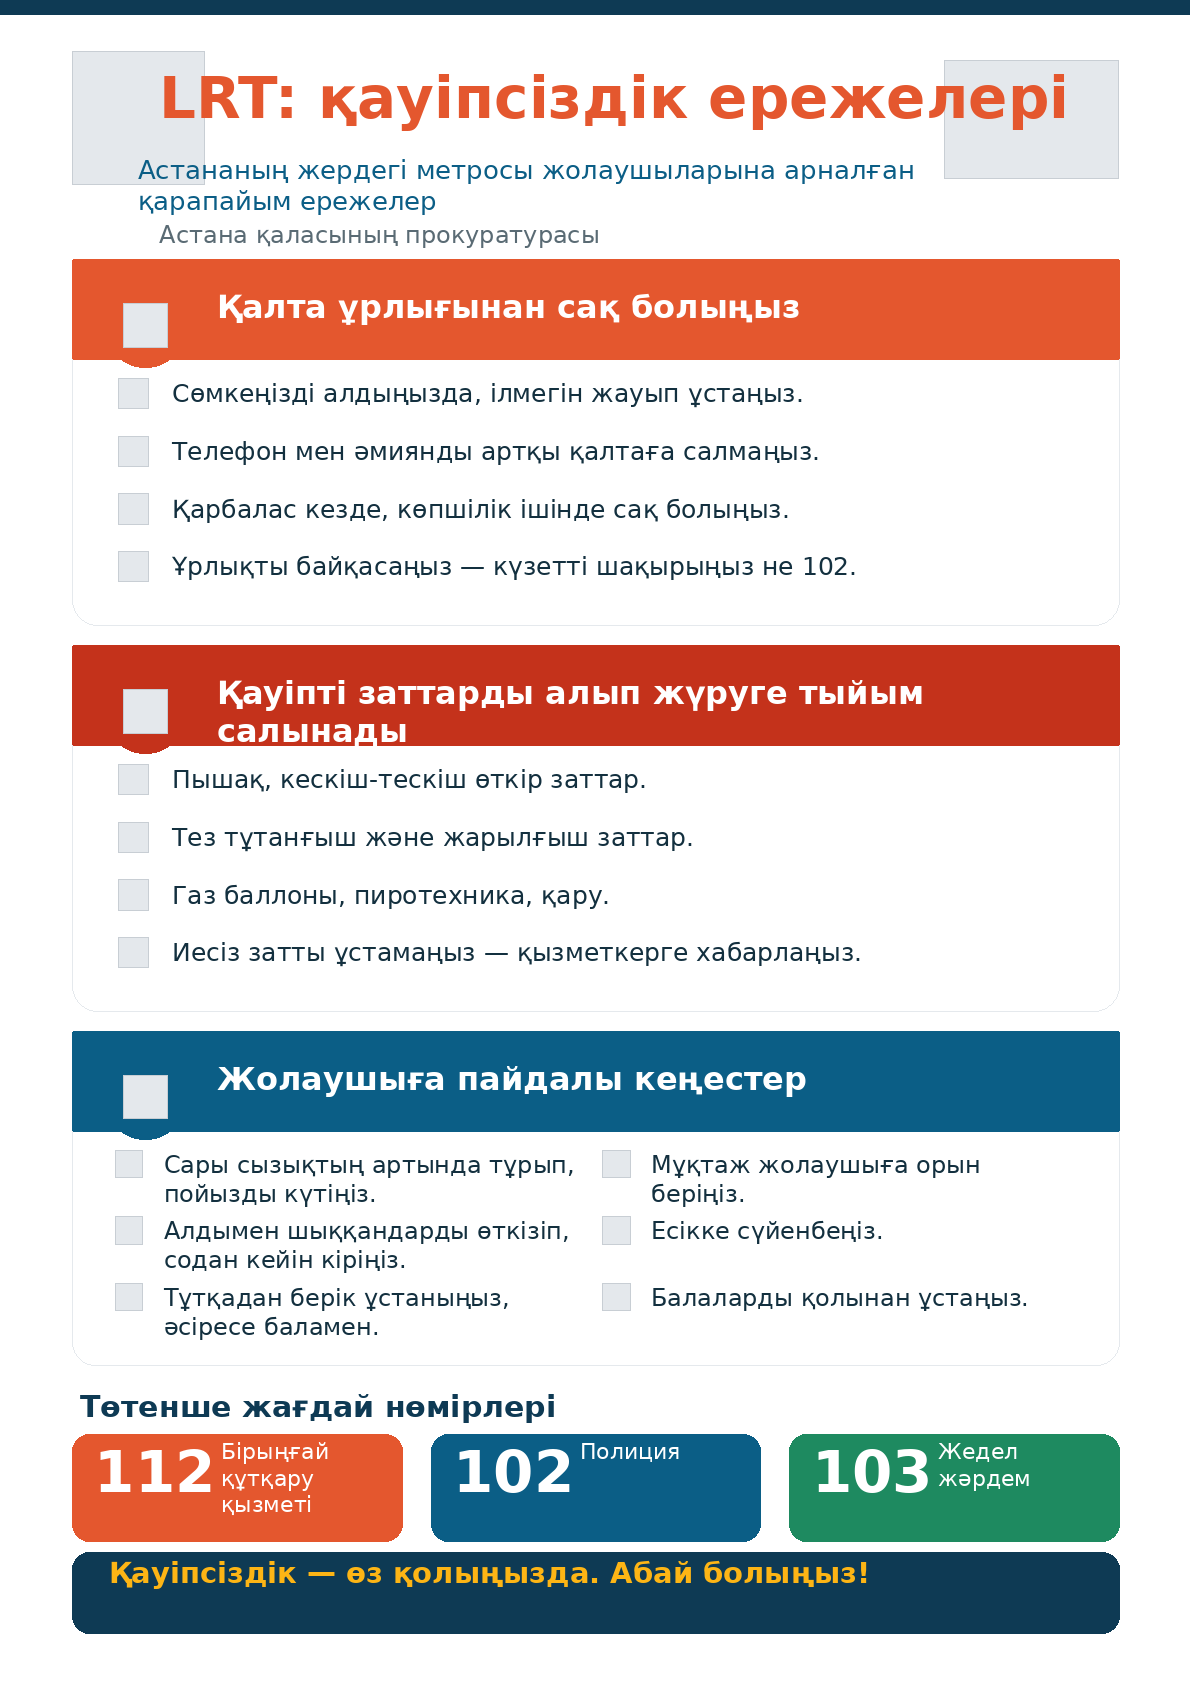
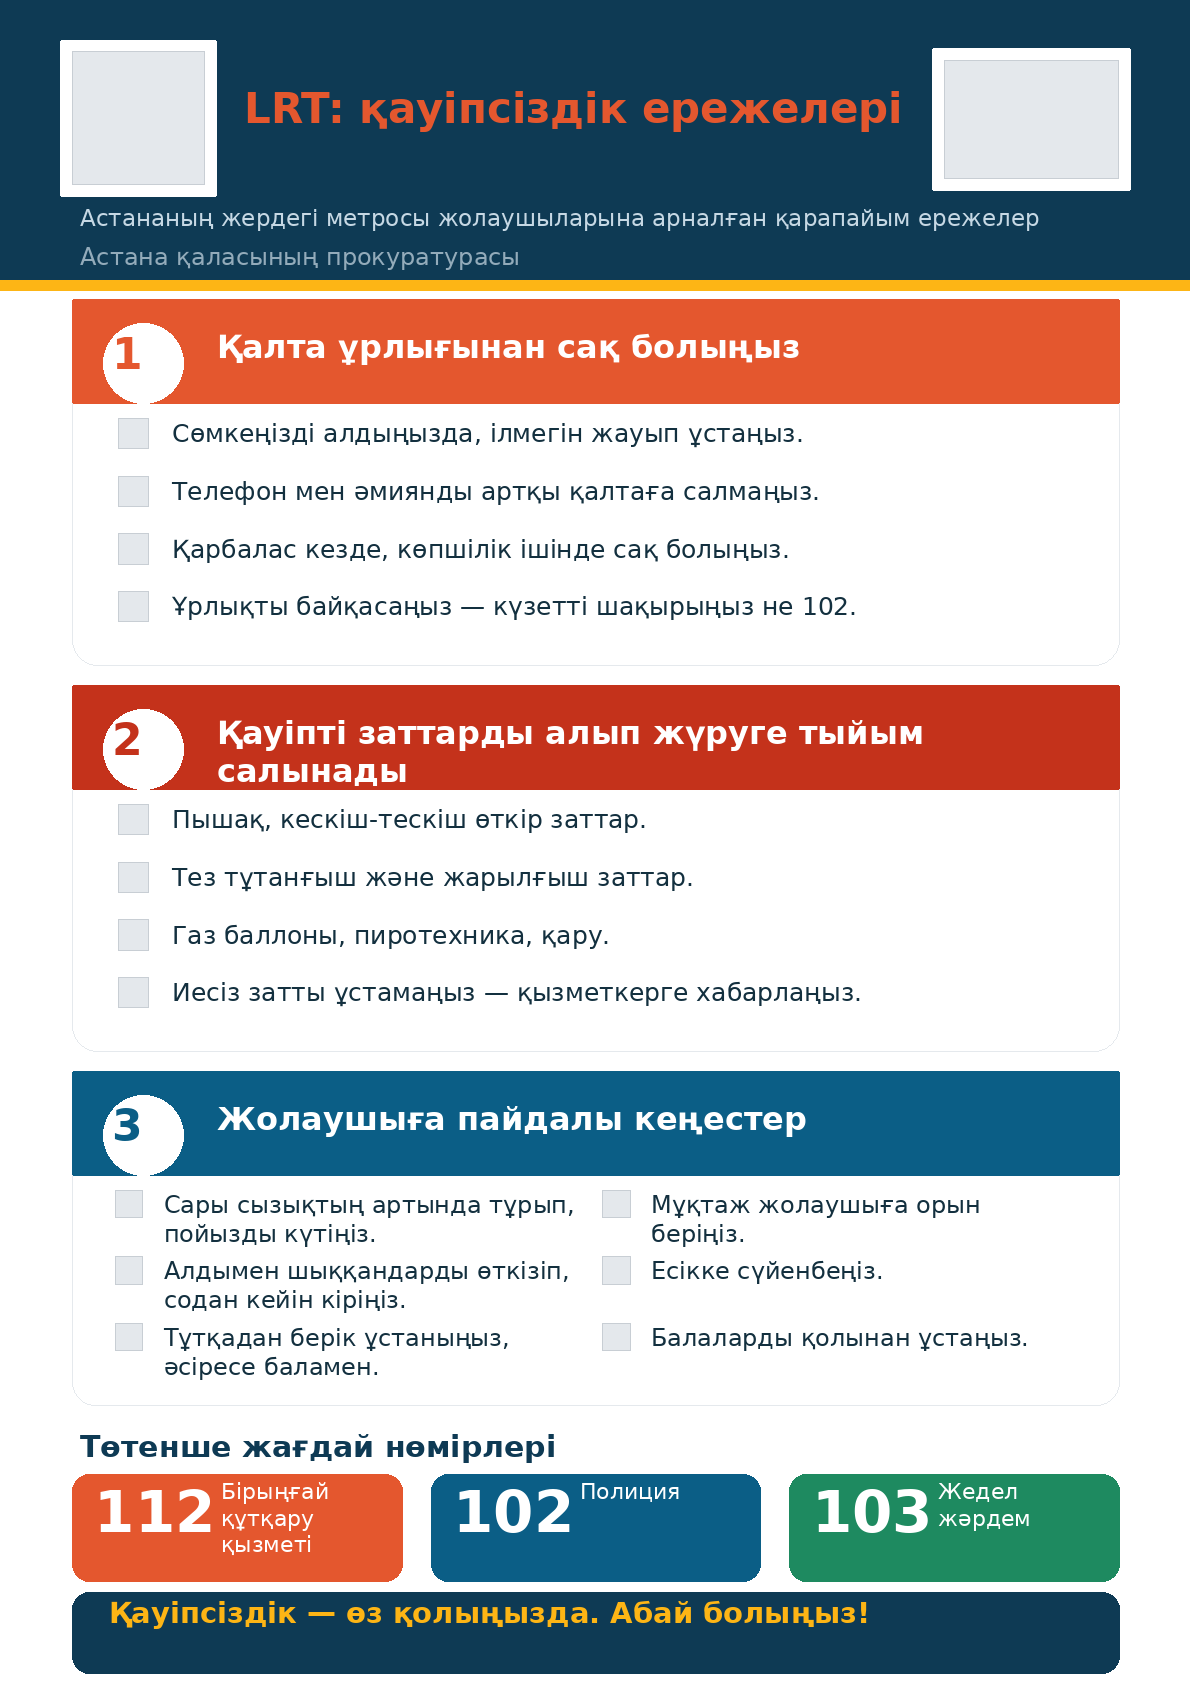
LRT poster: bold poster redesign (navy gradient hero + numbered bands)
- Navy gradient hero with gold accent rule, white logo chips, big orange "LRT"
  wordmark, one-line title (RU + KZ), full-width subtitle/issuer
- Section blocks: clean white cards with solid colored header bands and large
  numbered badges (1/2/3)
- Kazakh translation completed; ЛРТ latinized to LRT
- Built with an in-repo approximate PPTX->PNG renderer (work/render.py) to
  design visually since LibreOffice can't run here; previews refreshed

diff --git a/lrt-poster/build.py b/lrt-poster/build.py
@@ -1,89 +1,129 @@
 # -*- coding: utf-8 -*-
-"""LRT safety poster: latinize ЛРТ->LRT, complete the Kazakh translation, and
-redesign the section blocks into clean white cards with solid colored header
-bands (white titles). Applied to both RU (slide 1) and KZ (slide 2)."""
+"""LRT safety poster — bold redesign: navy gradient hero, big section index
+numbers, clean colored header bands. RU (slide 1) + KZ (slide 2). Keeps images,
+completes the Kazakh translation, latinizes ЛРТ->LRT."""
 from pptx import Presentation
 from pptx.util import Pt, Emu
 from pptx.dml.color import RGBColor
 from pptx.enum.shapes import MSO_SHAPE
+from pptx.enum.text import PP_ALIGN, MSO_ANCHOR
 from pptx.oxml.ns import qn
 
 SRC = "lrt-poster/source_LRT_ru_kz.pptx"
 OUT = "lrt-poster/LRT_safety_poster_FINAL.pptx"
 prs = Presentation(SRC)
 
-ORANGE = RGBColor(0xE4,0x57,0x2E)
-RED    = RGBColor(0xC4,0x32,0x1B)
-BLUE   = RGBColor(0x0B,0x5E,0x86)
-NAVY   = RGBColor(0x0E,0x3A,0x54)
-WHITE  = RGBColor(0xFF,0xFF,0xFF)
-CARDBD = RGBColor(0xE5,0xE9,0xED)
+ORANGE=RGBColor(0xE4,0x57,0x2E); RED=RGBColor(0xC4,0x32,0x1B); BLUE=RGBColor(0x0B,0x5E,0x86)
+NAVY=RGBColor(0x0E,0x3A,0x54); NAVY2=RGBColor(0x16,0x5A,0x7C); GOLD=RGBColor(0xFD,0xB5,0x15)
+WHITE=RGBColor(0xFF,0xFF,0xFF); CARDBD=RGBColor(0xE5,0xE9,0xED)
+LT=RGBColor(0xC6,0xD8,0xE4); MUT=RGBColor(0x93,0xAB,0xBA)
+DY=20  # shift content down to make room for the hero
 
-def find(slide, name):
-    return next((sh for sh in slide.shapes if sh.name == name), None)
+def find(s,n): return next((x for x in s.shapes if x.name==n),None)
+def rid(sh):
+    p=sh._element.getparent();
+    if p is not None: p.remove(sh._element)
+def to_back(sh):
+    el=sh._element; tree=el.getparent(); tree.remove(el)
+    anchor=tree.find(qn('p:grpSpPr'))
+    anchor.addnext(el)
+def set_radius(sh,val):
+    g=sh._element.find('.//'+qn('a:prstGeom')); gd=g.find('.//'+qn('a:gd')) if g is not None else None
+    if gd is not None: gd.set('fmla','val %d'%val)
+def grad(shape,c1,c2,ang=2700000):
+    spPr=shape._element.spPr
+    for t in ('a:noFill','a:solidFill','a:gradFill','a:blipFill','a:pattFill'):
+        e=spPr.find(qn(t))
+        if e is not None: spPr.remove(e)
+    g=spPr.makeelement(qn('a:gradFill'),{}); lst=g.makeelement(qn('a:gsLst'),{})
+    for pos,c in [(0,c1),(100000,c2)]:
+        gs=lst.makeelement(qn('a:gs'),{'pos':str(pos)})
+        cl=gs.makeelement(qn('a:srgbClr'),{'val':'%02X%02X%02X'%(c[0],c[1],c[2])})
+        gs.append(cl); lst.append(gs)
+    g.append(lst); g.append(g.makeelement(qn('a:lin'),{'ang':str(ang),'scaled':'1'}))
+    ln=spPr.find(qn('a:ln'))
+    (ln.addprevious(g) if ln is not None else spPr.append(g))
+def set_runs(shape,parts,anchor=None):
+    tf=shape.text_frame; p=tf.paragraphs[0]; r0=p.runs[0]
+    sz,bold,name=r0.font.size,r0.font.bold,r0.font.name
+    r0.text=parts[0][0]; r0.font.color.rgb=parts[0][1]
+    for r in p.runs[1:]: r.text=''
+    for t,c in parts[1:]:
+        r=p.add_run(); r.text=t; r.font.size,r.font.bold,r.font.name=sz,bold,name; r.font.color.rgb=c
+    if anchor is not None: tf.vertical_anchor=anchor
+def set_text(shape,new,color=None):
+    p=shape.text_frame.paragraphs[0]; p.runs[0].text=new
+    if color is not None: p.runs[0].font.color.rgb=color
+    for r in p.runs[1:]: r.text=''
+def rect(s,x,y,w,h,fill=None,line=None,lw=1.0,round_=None,grad2=None):
+    shp=MSO_SHAPE.ROUNDED_RECTANGLE if round_ is not None else MSO_SHAPE.RECTANGLE
+    sh=s.shapes.add_shape(shp,Pt(x),Pt(y),Pt(w),Pt(h))
+    if round_ is not None: set_radius(sh,round_)
+    if grad2: grad(sh,grad2[0],grad2[1])
+    elif fill is not None: sh.fill.solid(); sh.fill.fore_color.rgb=fill
+    else: sh.fill.background()
+    if line is not None: sh.line.color.rgb=line; sh.line.width=Pt(lw)
+    else: sh.line.fill.background()
+    sh.shadow.inherit=False; return sh
+def txt(s,x,y,w,h,runs,sz,bold,color,align=PP_ALIGN.LEFT,anchor=MSO_ANCHOR.TOP,font='Calibri'):
+    tb=s.shapes.add_textbox(Pt(x),Pt(y),Pt(w),Pt(h)); tf=tb.text_frame; tf.word_wrap=True
+    tf.vertical_anchor=anchor
+    for m in ('left','right','top','bottom'): setattr(tf,'margin_'+m,0)
+    p=tf.paragraphs[0]; p.alignment=align
+    for t,c in (runs if isinstance(runs,list) else [(runs,color)]):
+        r=p.add_run(); r.text=t; r.font.size=Pt(sz); r.font.bold=bold; r.font.name=font; r.font.color.rgb=c
+    return tb
 
-def set_runs(shape, parts):
-    p = shape.text_frame.paragraphs[0]; r0 = p.runs[0]
-    sz, bold, name = r0.font.size, r0.font.bold, r0.font.name
-    r0.text = parts[0][0]; r0.font.color.rgb = parts[0][1]
-    for r in p.runs[1:]: r.text = ''
-    for t, c in parts[1:]:
-        r = p.add_run(); r.text = t
-        r.font.size, r.font.bold, r.font.name = sz, bold, name
-        r.font.color.rgb = c
+SECTIONS=[('Shape 3','Shape 4','Text 5','Image 2',ORANGE,'1'),
+          ('Shape 10','Shape 11','Text 12','Image 7',RED,'2'),
+          ('Shape 17','Shape 18','Text 19','Image 12',BLUE,'3')]
+title_tail={0:': правила безопасности',1:': қауіпсіздік ережелері'}
+sub_txt={0:'Простые правила для пассажиров наземного метро Астаны',1:'Астананың жердегі метросы жолаушыларына арналған қарапайым ережелер'}
+iss_txt={0:'Прокуратура города Астаны',1:'Астана қаласының прокуратурасы'}
+kz_fix={'Text 15':'Газ баллоны, пиротехника, қару.','Text 20':'Сары сызықтың артында тұрып, пойызды күтіңіз.',
+        'Text 21':'Алдымен шыққандарды өткізіп, содан кейін кіріңіз.','Text 22':'Тұтқадан берік ұстаныңыз, әсіресе баламен.'}
 
-def set_text(shape, new, color=None):
-    p = shape.text_frame.paragraphs[0]; p.runs[0].text = new
-    if color is not None: p.runs[0].font.color.rgb = color
-    for r in p.runs[1:]: r.text = ''
+SW=Emu(prs.slide_width).pt
+for i,s in enumerate(prs.slides):
+    # 1) shift existing content down to clear the hero
+    for sh in list(s.shapes):
+        if Emu(sh.top).pt>=129: sh.top=Pt(Emu(sh.top).pt+DY)
+    # 2) HERO background (gradient) + gold accent
+    hero=rect(s,0,0,SW,140,grad2=(NAVY,NAVY2)); to_back(hero)
+    rect(s,0,140,SW,5,fill=GOLD)
+    # 3) white chips behind logos
+    for logo,(cx,cy,cw,ch) in [(find(s,'Image 0'),(30,20,78,78)),(find(s,'Image 1'),(466,24,99,71))]:
+        if logo is not None:
+            chip=rect(s,cx,cy,cw,ch,fill=WHITE,round_=12000)
+            el=chip._element; el.getparent().remove(el); logo._element.addprevious(el)
+    # 4) hero texts (reuse existing title/subtitle/issuer shapes, restyle white)
+    t0=find(s,'Text 0'); t0.left,t0.top,t0.width,t0.height=Pt(118),Pt(40),Pt(352),Pt(30)
+    set_runs(t0,[('LRT',ORANGE),(title_tail[i],WHITE)],anchor=MSO_ANCHOR.MIDDLE)
+    for r in t0.text_frame.paragraphs[0].runs: r.font.size=Pt(21)
+    t1=find(s,'Text 1'); t1.left,t1.top,t1.width,t1.height=Pt(36),Pt(100),Pt(524),Pt(18)
+    set_text(t1,sub_txt[i],LT)
+    for r in t1.text_frame.paragraphs[0].runs: r.font.size=Pt(11.5)
+    t2=find(s,'Text 2'); t2.left,t2.top,t2.width=Pt(36),Pt(119),Pt(524)
+    set_text(t2,iss_txt[i],MUT)
+    # 5) sections: white card + colored band + big index number badge
+    for card_n,badge_n,title_n,icon_n,color,num in SECTIONS:
+        card=find(s,card_n); badge=find(s,badge_n); title=find(s,title_n); icon=find(s,icon_n)
+        card.fill.solid(); card.fill.fore_color.rgb=WHITE
+        card.line.color.rgb=CARDBD; card.line.width=Pt(1.0); set_radius(card,7000)
+        band=rect(s,Emu(card.left).pt,Emu(card.top).pt,Emu(card.width).pt,52,fill=color,round_=7000)
+        el=band._element; el.getparent().remove(el); card._element.addnext(el)  # above card, below badge/title
+        # numbered badge (reuse the circle shape): white disc + colored number
+        badge.fill.solid(); badge.fill.fore_color.rgb=WHITE; badge.line.fill.background()
+        badge.width=Pt(40); badge.height=Pt(40)
+        tf=badge.text_frame; tf.word_wrap=False; tf.vertical_anchor=MSO_ANCHOR.MIDDLE
+        for m in ('left','right','top','bottom'): setattr(tf,'margin_'+m,0)
+        p=tf.paragraphs[0]; p.alignment=PP_ALIGN.CENTER
+        r=p.add_run(); r.text=num; r.font.size=Pt(22); r.font.bold=True; r.font.name='Calibri'; r.font.color.rgb=color
+        if icon is not None: rid(icon)   # drop small section glyph in favour of the number
+        set_text(title,title.text_frame.text.strip(),WHITE)
+    # 6) translation + LRT already handled in titles; KZ bullet completion
+    if i==1:
+        set_text(find(s,'Text 1'),sub_txt[1],LT)
+        for nm,new in kz_fix.items(): set_text(find(s,nm),new)
 
-def set_radius(shape, val):
-    g = shape._element.find('.//' + qn('a:prstGeom'))
-    gd = g.find('.//' + qn('a:gd')) if g is not None else None
-    if gd is not None: gd.set('fmla', 'val %d' % val)
-
-def style_card(shape, radius=7000):
-    shape.fill.solid(); shape.fill.fore_color.rgb = WHITE
-    shape.line.color.rgb = CARDBD; shape.line.width = Pt(1.0)
-    set_radius(shape, radius)
-
-def add_band(slide, card, color, h=50, radius=7000):
-    b = slide.shapes.add_shape(MSO_SHAPE.ROUNDED_RECTANGLE, card.left, card.top, card.width, Pt(h))
-    b.fill.solid(); b.fill.fore_color.rgb = color
-    b.line.fill.background(); b.shadow.inherit = False
-    set_radius(b, radius)
-    sp = b._element; sp.getparent().remove(sp); card._element.addnext(sp)  # z: above card, below icon/title
-    return b
-
-SECTIONS = [('Shape 3', 'Shape 4', 'Text 5', ORANGE),
-            ('Shape 10', 'Shape 11', 'Text 12', RED),
-            ('Shape 17', 'Shape 18', 'Text 19', BLUE)]
-
-title_tail = {0: ': правила безопасности', 1: ': қауіпсіздік ережелері'}
-kz_fix = {
-    'Text 1':  'Астананың жердегі метросы жолаушыларына арналған қарапайым ережелер',
-    'Text 15': 'Газ баллоны, пиротехника, қару.',
-    'Text 20': 'Сары сызықтың артында тұрып, пойызды күтіңіз.',
-    'Text 21': 'Алдымен шыққандарды өткізіп, содан кейін кіріңіз.',
-    'Text 22': 'Тұтқадан берік ұстаныңыз, әсіресе баламен.',
-}
-
-SW = Emu(prs.slide_width).pt
-for i, s in enumerate(prs.slides):
-    t0 = find(s, 'Text 0'); set_runs(t0, [('LRT', ORANGE), (title_tail[i], NAVY)]); t0.width = Pt(480)
-    bar = s.shapes.add_shape(MSO_SHAPE.RECTANGLE, Pt(0), Pt(0), Pt(SW), Pt(7))
-    bar.fill.solid(); bar.fill.fore_color.rgb = NAVY; bar.line.fill.background(); bar.shadow.inherit = False
-    for card_n, circ_n, title_n, color in SECTIONS:
-        card, circ, title = find(s, card_n), find(s, circ_n), find(s, title_n)
-        style_card(card)
-        add_band(s, card, color)
-        set_text(title, title.text_frame.text.strip(), WHITE)
-        # keep the icon badge the band colour (blends in) so the white icon glyph stays visible
-        circ.fill.solid(); circ.fill.fore_color.rgb = color
-        circ.line.fill.background()
-    if i == 1:
-        for nm, new in kz_fix.items():
-            set_text(find(s, nm), new)
-
-prs.save(OUT)
-print("saved", OUT, "slides:", len(prs.slides._sldIdLst))
+prs.save(OUT); print("saved",OUT)
